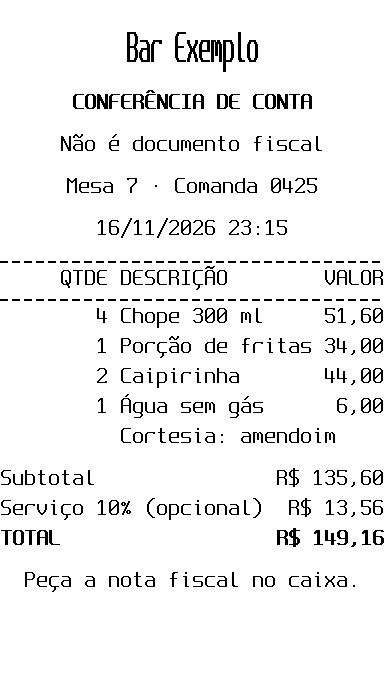
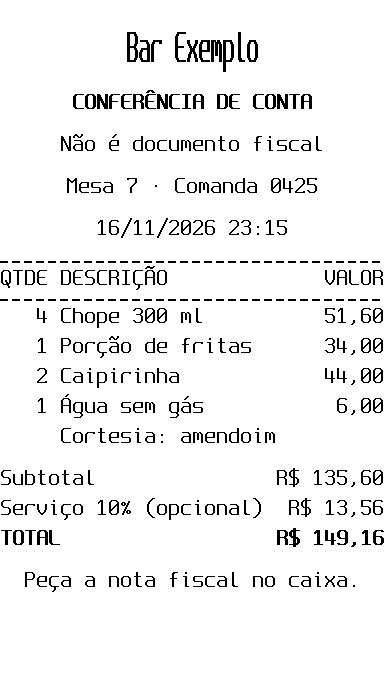
Table review: the text column takes the spare room, font tables view as printed, sturdier eval checks
- A table that fills the paper gives what is left to its widest left-aligned auto column (text, not numbers;
  ties: the first; none left-aligned: the widest auto column), not always the first: an item's description, a
  total's label. Before, a right-aligned Qty or QTDE in the first column took it. Goldens changed:
  table-cells-bill.png and examples/tables/bar-check.png. tables.md and bobina help table say the rule.
- The terminal view of a table in a raster font lines its columns up where the paper has them (as wide as they
  print, wider only for a proportional font's text): a total's value at the right margin, not next to its label.
- bobina help's footer wraps between topics at 80 columns; one list (SHOWN, ALSO_NAMED) feeds it, the help
  command, an unknown topic and the MCP help tool, which imports LISTED.
- evals/checks/table_checks.py: calls the real bobina named in cli-agent-eval's shim, so a check never lands in
  the agent's trace; the receipt look needs the receipt style's own dashed rule (asked of bobina view) above and
  below the titles, so a --- {.dashed} over a plain table fails; table separators with fewer than 3 dashes
  count; a missing item 003 is said plainly. Tests for each, and for totals drawn in a smaller font.
- The earlier docs commit also left the CLI's drafts-and-editor section out of llms-full.txt, on purpose: an
  editor needs a person at a terminal, and llms-full.txt is for agents (it stays in docs/CLI.md).
[…]

diff --git a/evals/checks/table_checks.py b/evals/checks/table_checks.py
@@ -10,19 +10,34 @@ cell versus a column's prefix). Standard library only: it runs with the sandbox'
 
 from __future__ import annotations
 
+import ast
 import functools
 import json
 import re
+import shutil
 import subprocess
 import sys
+import tempfile
 from pathlib import Path
 
 BRAILLE = re.compile(r"^[ -⣿]+$")
+SHIM_REAL = re.compile(r"^REAL, TRACE = (.+)$", re.M)  # cli-agent-eval's shim: REAL, TRACE = '/…/bobina', '/…'
+
+
+@functools.cache
+def executable() -> str:
+    """The real bobina, not cli-agent-eval's shim in front of it: the shim logs every call into the agent's trace,
+    and a check is not the agent's call. The shim names the real program in its REAL line (sandbox.py SHIM)."""
+    found = shutil.which("bobina")
+    if not found:
+        sys.exit("no bobina on PATH")
+    m = SHIM_REAL.search(Path(found).read_bytes()[:8192].decode("utf-8", "replace"))
+    return ast.literal_eval(m.group(1))[0] if m else found
 
 
 @functools.cache
 def bobina(*args: str) -> subprocess.CompletedProcess:
-    return subprocess.run(["bobina", *args], capture_output=True, text=True)
+    return subprocess.run([executable(), *args], capture_output=True, text=True)
 
 
 def problems(path: str) -> list[dict]:
@@ -52,6 +67,24 @@ def is_rule(line: str) -> bool:
     return bool(BRAILLE.match(line.strip()))
 
 
+@functools.cache
+def receipt_rule() -> set[str]:
+    """How bobina view shows the dashed rule of style=receipt (its braille letters), asked of bobina itself: a
+    solid rule, a divider (--- {.dashed}) or another style's line shows other letters."""
+    with tempfile.TemporaryDirectory() as tmp:
+        ref = Path(tmp) / "ref.bob.md"
+        ref.write_text("| A |\n|---|\n| b |\n{style=receipt}\n", encoding="utf-8")
+        lines = view(str(ref))
+    i = find(lines, "A")
+    if i < 1 or not is_rule(lines[i - 1]):
+        sys.exit(f"bobina view shows no receipt rule to compare with: {lines}")
+    return set(lines[i - 1].strip())
+
+
+def is_receipt_rule(line: str) -> bool:
+    return is_rule(line) and set(line.strip()) <= receipt_rule()
+
+
 def widths(path: str, ncol: int) -> list[tuple[str, int]] | None:
     """(title, width) of each column of the first table with `ncol` columns, from bobina check's L108 note."""
     for p in problems(path):
@@ -66,7 +99,7 @@ def body_rows(path: str) -> list[str]:
     """The body rows of every table in the document as written (no title row, no separator row)."""
     lines, rows = Path(path).read_text(encoding="utf-8").splitlines(), []
     for i, ln in enumerate(lines):
-        if re.match(r"^\s*\|?\s*:?-{3,}:?\s*(\|\s*:?-{3,}:?\s*)*\|?\s*$", ln) and i > 0 and "|" in lines[i - 1]:
+        if re.match(r"^\s*\|?\s*:?-+:?\s*(\|\s*:?-+:?\s*)*\|?\s*$", ln) and i > 0 and "|" in lines[i - 1]:
             j = i + 1
             while j < len(lines) and lines[j].strip().startswith("|"):
                 rows.append(lines[j])
@@ -111,8 +144,8 @@ def rules_around_titles(path, *titles):
     i = find(lines, *titles)
     if i < 0:
         fail(f"no title line with {titles}")
-    if not (i > 0 and is_rule(lines[i - 1]) and i + 1 < len(lines) and is_rule(lines[i + 1])):
-        fail(f"no dashed line both above and below the titles: {lines[max(0, i - 1) : i + 2]}")
+    if not (i > 0 and is_receipt_rule(lines[i - 1]) and i + 1 < len(lines) and is_receipt_rule(lines[i + 1])):
+        fail(f"no receipt's dashed line both above and below the titles: {lines[max(0, i - 1) : i + 2]}")
 
 
 def bar_titles_ruled(path):
@@ -159,6 +192,8 @@ def market_discount_under_description(path):
     if d < 0:
         fail("no line with the whole 'Desconto no item 3 - 3,27' (squeezed into one column?)")
     item = next((i for i, ln in enumerate(lines) if ln.lstrip().startswith("003")), -1)
+    if item < 0:
+        fail("no item 003 (no line starting with 003)")
     nxt = next((i for i, ln in enumerate(lines) if ln.lstrip().startswith("008")), len(lines))
     if not item < d < nxt:
         fail("the discount line is not right after item 003")

diff --git a/src/bobina/layout.py b/src/bobina/layout.py
@@ -1870,8 +1870,10 @@ class Layout:
             widths[i] = w
         keep = [max(h, min(n, w)) for h, n, w in zip(lay.hard, natural, longest[0], strict=True)]
         self.widen_for_spans(widths, body, lay, ink, max(0, cap - sum(widths)), keep)
-        if auto and not t.attrs.has("compact") and sum(widths) < cap:  # stretch: last column at the paper edge
-            widths[auto[0]] += cap - sum(widths)
+        if auto and not t.attrs.has("compact") and sum(widths) < cap:  # stretch to the paper's edge: the spare
+            text = [i for i in auto if _at(t.aligns, i, "left") == "left"] or auto  # room goes to the widest auto
+            widths[max(text, key=lambda i: natural[i])] += cap - sum(widths)  # column of text (left-aligned; the
+            # numbers are right-aligned), ties to the first: an item's description, a total's label
         free = max(0, cap - sum(widths))  # a .compact table is narrower than the paper: .center and .right place
         place = next((a for a in ("right", "center") if t.attrs.has(a)), t.attrs.kv.get("align"))  # a cut one: none
         shift = {"center": free // 2, "right": free}.get(place, 0) if t.attrs.has("compact") or not auto else 0
@@ -1989,9 +1991,10 @@ class Layout:
 
     def table_rows(self, t: Table, head, body, widths: list[int], ink, lay=None):
         """The title's lines and each body row's lines (table_wrap), each also on a grid of character columns: the
-        printer font's columns (what prints natively), or, for a table in a raster font, columns as wide as the
-        widest text in them (a span's text widening the last column it covers), so the terminal views show every
-        column of it, lined up."""
+        printer font's columns (what prints natively), or, for a table in a raster font, columns as wide as they
+        print, or as the widest text in them when a proportional font's text takes more character columns (a span's
+        text widening the last column it covers), so the terminal views show every column of it, lined up, where
+        the paper has it."""
         heads = self.table_wrap(t, head, widths, ink, lay, lay and lay.head_slots, t.head_row) if head else []
         groups = [self.table_wrap(t, r, widths, ink, lay, lay and _at(lay.slots, k), _row(t, k))
                   for k, r in enumerate(body)]  # fmt: skip
@@ -1999,7 +2002,7 @@ class Layout:
         grid = list(widths)
         if not ink.native:
             alone = [(s.first, seg) for ln in every for s, seg in zip(ln.slots, ln.segs, strict=True) if s.alone]
-            grid = [max([0, *(columns(seg) for i, seg in alone if i == c)]) for c in range(len(widths))]
+            grid = [max([w, *(columns(seg) for i, seg in alone if i == c)]) for c, w in enumerate(widths)]
             for ln in every:
                 for s, seg in zip(ln.slots, ln.segs, strict=True):
                     grid[s.last] += max(0, columns(seg) - _span(grid, s))

diff --git a/tests/test_agent_eval_tables.py b/tests/test_agent_eval_tables.py
@@ -73,6 +73,53 @@ def test_the_broken_file_fails_the_fix_checks(box):
     assert len(said) == len(task["checks"]), said
 
 
+def said(check: str, text: str) -> list[str]:
+    """What one check says of a document written into the work folder (empty: it passes)."""
+    Path("doc.bob.md").write_text(text, encoding="utf-8")
+    return failures(load_checks(), [(check, "doc.bob.md")])
+
+
+def test_r_dollar_typed_in_cells_is_caught_with_short_separators(box):
+    doc = "| Produto | Preço | Promo |\n|---|--:|--:|\n| Arroz 5 kg | R$ 24,90 | R$ 21,90 |\n"
+    assert said("prices-not-typed", doc)
+    assert said("prices-not-typed", doc.replace("|---|--:|--:|", "|:-|-:|:-:|"))
+
+
+def test_totals_in_a_smaller_font_pass(box):
+    doc = "| | |\n|---|--:|\n| Subtotal | 157,50 |\n| Gorjeta sugerida | 18,90 |\n| Total | 176,40 |\n"
+    doc += "{font=Terminus size=16px}\n"
+    for check in ("clean", "totals-without-title", "totals-name-left-value-right"):
+        assert not said(check, doc), check
+
+
+def test_a_dashed_divider_over_a_plain_table_is_not_the_receipt_look(box):
+    doc = "--- {.dashed}\n\n| QTDE | DESCRIÇÃO | VALOR |\n|--:|---|--:|\n| 1 | Bagel ovos | 39,00 |\n"
+    assert said("bar-titles-ruled", doc)
+    assert not said("bar-titles-ruled", doc.replace("--- {.dashed}\n\n", "") + "{style=receipt}\n")
+
+
+def test_no_item_003_is_said_plainly(box):
+    doc = "| IT | DESCRIÇÃO |\n|---|---|\n| 001 | CEBOLA |\n| | Desconto no item 3 - 3,27 {span=all} |\n"
+    assert said("market-discount-under-description", doc) == [
+        "market-discount-under-description: no item 003 (no line starting with 003)"
+    ]
+
+
+def test_the_checks_call_the_real_bobina_not_the_eval_shim(box, tmp_path, monkeypatch):
+    """cli-agent-eval puts a shim named bobina first on PATH that logs each call as the agent's; the checks read
+    the real program from the shim's REAL line and leave the trace alone."""
+    real = tmp_path / "bin" / "bobina"  # the box's bobina, this checkout's
+    shim, trace = tmp_path / "shim" / "bobina", tmp_path / "trace.jsonl"
+    shim.parent.mkdir()
+    shim.write_text(f"#!/bin/sh\necho called >> {trace}\nexit 1\nREAL, TRACE = {str(real)!r}, {str(trace)!r}\n")
+    shim.chmod(0o755)
+    monkeypatch.setenv("PATH", f"{shim.parent}{os.pathsep}{os.environ['PATH']}")
+    checks = load_checks()
+    assert checks.executable() == str(real)
+    assert failures(checks, [("clean", "etiqueta.bob.md")])[0].startswith("clean: bobina check: M101")
+    assert not trace.exists()
+
+
 def test_a_check_runs_as_the_eval_runs_it(box):
     script = ROOT / "evals" / "checks" / "table_checks.py"
     r = subprocess.run([sys.executable, str(script), "clean", "etiqueta.bob.md"], capture_output=True, text=True)

diff --git a/tests/test_table_columns.py b/tests/test_table_columns.py
@@ -456,3 +456,35 @@ def test_shrink_never_passes_its_room_even_below_one_each():
     for widths in ([1] * 10, [3, 3, 3], [40, 1, 1, 1, 1]):
         for cap in range(0, len(widths) + 1):
             assert sum(_shrink(widths, cap)) <= cap, (widths, cap)
+
+
+# --- the spare room goes to the widest auto column; a font table's view is as wide as its paper ------------------
+
+
+def test_the_spare_room_goes_to_the_widest_column_of_text():
+    """The widest left-aligned auto column takes what is left of the paper (ties: the first); without one, the
+    widest auto column."""
+    res = build("| Qty | Item | Price |\n|--:|---|--:|\n| 2 | Espresso | 18,00 |\n| 1 | Bagel | 39,00 |\n")
+    assert lines(res)[1] == "  2 " + "Espresso".ljust(22) + " 18,00"  # the description takes it, not Qty
+    res = build("| Item | Qty | Price |\n|---|--:|--:|\n| Rice | 1 | 9,00 |\n")
+    assert lines(res)[1] == "Rice".ljust(22) + "   1  9,00"  # Price is wider, but right-aligned: a number
+    res = build("| | |\n|---|--:|\n| SUBTOTAL | 88,00 |\n| TOTAL | 96,80 |\n")
+    assert lines(res)[0] == "SUBTOTAL".ljust(27) + "88,00"  # a total's label still does
+    res = build("| ab | cd |\n|---|---|\n| x | y |\n")
+    assert lines(res)[0] == "ab".ljust(30) + "cd"  # a tie: the first
+    res = build("| a | bbb |\n|--:|--:|\n| 1 | 2 |\n")
+    assert lines(res)[0] == "a" + " bbb".rjust(31)  # nothing left-aligned: the widest auto column
+
+
+def test_a_short_code_column_on_58mm_leaves_the_room_to_the_description():
+    res = build("| IT | CÓD | DESCRIÇÃO | TOTAL |\n|---|---|---|--:|\n| 001 | 1431 | CEBOLA KG | 14,25 |\n"
+                "| 003 | 7369 | BANANA PRATA | 16,33 |\n", profile_name="mtp-ii-58")  # fmt: skip
+    assert lines(res)[1] == "001 1431 " + "CEBOLA KG".ljust(17) + " 14,25"
+
+
+def test_the_view_of_a_font_table_without_titles_is_as_wide_as_it_prints():
+    """The terminal view lines a raster-font table's columns up where the paper has them: a total's value at the
+    right margin, not next to its label."""
+    res = build('| | {prefix="R$ "} |\n|---|--:|\n| SUBTOTAL | 105,70 |\n| TROCO | 7,57 |\n{font=Terminus size=16px}\n')
+    assert notes(res)[0].endswith("(+1 gap = 48 of 48)")
+    assert lines(res) == ["SUBTOTAL" + " " * 31 + "R$ 105,70", "TROCO" + " " * 36 + "R$ 7,57"]

diff --git a/src/bobina/cli/args.py b/src/bobina/cli/args.py
@@ -155,9 +155,21 @@ def _help_code(code: str, as_json: bool) -> int:
 
 TOPICS = ("commands", "format", "table", "data", "pay", "contact", "icons", "nudges", "problems", "aliases")
 NAMED = {"pay", "contact"}  # topics that take a second word: bobina help pay pix, bobina help contact x
-SAME_AS = {"commands": "bobina help itself", "problems": "nudges"}  # topics also reached under another name
-# what bobina help says it takes, all from TOPICS: its footer, the help command's description, an unknown topic
-LISTED = [t for t in TOPICS if t not in SAME_AS] + ["a problem code (E302)", "a command"]
+ALSO_NAMED = frozenset({"commands", "problems"})  # bobina help itself; nudges: not listed again
+SHOWN = [t for t in TOPICS if t not in ALSO_NAMED]  # what bobina help lists: its footer, the help command's
+LISTED = [*SHOWN, "a problem code (E302)", "a command"]  # description, an unknown topic, the MCP help tool
+
+
+def _footer(width: int = 80) -> str:
+    """The last lines of bobina help: every topic, wrapped between topics at `width` columns."""
+    lines, line = [], "Help: bobina help"
+    for i, word in enumerate([*SHOWN, "E302", "COMMAND"]):
+        piece = (" " if i == 0 else " | ") + word
+        if len(line) + len(piece) + 2 > width:  # room left for the " |" that ends a wrapped line
+            lines.append(line + " |")
+            line, piece = "     ", " " + word
+        line += piece
+    return "\n".join([*lines, line])
 
 
 def _help_text(topic: str, name: str | None = None) -> str:
@@ -586,8 +598,7 @@ def make_parser():
         prog="bobina",
         formatter_class=argparse.RawDescriptionHelpFormatter,
         description="bobina — print Markdown on thermal roll printers",
-        epilog="Every command that prints shows a confirmation first (--yes skips it).\n"
-        "Help: bobina help " + " | ".join([t for t in TOPICS if t not in SAME_AS] + ["E302", "COMMAND"]),
+        epilog="Every command that prints shows a confirmation first (--yes skips it).\n" + _footer(),
     )
     ap.add_argument("--version", action="version", version=f"bobina {__version__}")
     sub = ap.add_subparsers(dest="command", metavar="COMMAND")

diff --git a/tests/test_table_help.py b/tests/test_table_help.py
@@ -19,7 +19,8 @@ def test_help_table_prints_on_an_80_column_terminal(capsys):
     assert max(len(line) for line in out.splitlines()) <= 80
     out = " ".join(out.split())  # wrapped lines read as one
     for must in ("style=plain|receipt|lines|grid|header-invert|zebra", "width=", 'prefix="R$ "', "span=all",
-                 "one empty cell for each column before it", "lowercase", "| | |", "docs/guides/tables.md"):  # fmt: skip
+                 "one empty cell for each column before it", "lowercase", "widest left-aligned one", "| | |",
+                 "docs/guides/tables.md"):  # fmt: skip
         assert must in out, must
 
 
@@ -64,13 +65,19 @@ def test_the_example_is_clean():
     assert not [n.code for n in res.visible_nudges() if n.severity in ("warning", "error")]
 
 
-def test_bobina_help_lists_every_topic(capsys):
+def test_bobina_help_lists_every_topic(capsys, monkeypatch):
     """The footer of bobina help, the help command's description and an unknown topic say the same list, made from
-    TOPICS: a new topic cannot be left out of them."""
+    TOPICS: a new topic cannot be left out of them. On an 80-column terminal the footer wraps between topics."""
+    monkeypatch.setenv("COLUMNS", "80")
     cli.main(["help"])
-    footer = capsys.readouterr().out.strip().splitlines()[-1]
-    for t in ("format", "table", "data", "pay", "contact", "icons", "nudges", "aliases", "E302", "COMMAND"):
-        assert f" {t}" in footer, t
+    out = capsys.readouterr().out
+    assert max(len(line) for line in out.splitlines()) <= 80
+    footer = out[out.index("Help: bobina help") :]
+    words = [w.strip() for w in footer.removeprefix("Help: bobina help").split("|")]
+    assert words == [*args.SHOWN, "E302", "COMMAND"]
+    for t in ("format", "table", "data", "pay", "contact", "icons", "nudges", "aliases"):
+        assert t in args.SHOWN, t
+    assert args._footer(40).count("\n") >= 3 and max(len(x) for x in args._footer(40).splitlines()) <= 40
     assert cli.main(["help", "tabel"]) == cli.USAGE
     err = capsys.readouterr().err
     assert "did you mean table?" in err and all(t in err for t in args.LISTED)

diff --git a/src/bobina/mcp_server.py b/src/bobina/mcp_server.py
@@ -26,6 +26,7 @@ from pathlib import Path
 from typing import Annotated
 
 from . import paper
+from .cli.args import LISTED
 from .cli.common import LEFT_OUT, OK, USAGE, Fail
 from .datasource import NAME_OK
 from .library import NAME_RE, LibraryError, check_name
@@ -142,13 +143,6 @@ def _meaning(code: int) -> str:
     from .cli.args import EXIT_CODES
 
     return EXIT_CODES.get(code, "")
-
-
-def _help_topics() -> list[str]:
-    """What the help tool takes: the topics bobina help lists (one list, in cli/args.py)."""
-    from .cli.args import LISTED
-
-    return LISTED
 
 
 def result(r: Run, *extra):
@@ -467,7 +461,7 @@ def build(printer=None, profile=None, allow: list[str] | None = None, strict: bo
     async def help_(
         topic: Annotated[
             str | None,
-            Field(description=", ".join(_help_topics()) + "; none: the whole CLI for programs"),
+            Field(description=", ".join(LISTED) + "; none: the whole CLI for programs"),  # bobina help's list
         ] = None,
         name: Annotated[
             str | None, Field(description="with topic pay or contact: one scheme or network, e.g. pix")

diff --git a/src/bobina/table_help.py b/src/bobina/table_help.py
@@ -39,7 +39,8 @@ COLUMNS_PER_LINE = (  # (font, columns on 58 mm, on 80 mm), the 1-column spaces 
 )
 
 COLUMN = {
-    "width=": "auto (the default: the auto columns share what is left), 7ch (columns of the table's font), "
+    "width=": "auto (the default: the auto columns share what is left, and the widest left-aligned one, text "
+    "rather than numbers, takes the rest of the paper), 7ch (columns of the table's font), "
     "20mm, 30% (of the text room), 96 (dots). A column with a width wraps its text inside it and cuts a longer "
     "word at its edge, without a warning",
     "prefix=": '"R$ " before every body value: never in the title row, never in an empty cell',

diff --git a/docs/guides/tables.md b/docs/guides/tables.md
@@ -20,8 +20,8 @@ Everything with the same reach goes in the same `{…}`. Names and values are lo
 ## Columns
 
 - The second line sets each column's alignment, as in any Markdown: `---` left, `--:` right, `:-:` centre.
-- Each column is as wide as its text, with **one column of space** between two columns. The table fills the paper
-  (the first column takes what is left); `.compact` keeps it narrow, `.center` or `.right` places it.
+- Each column is as wide as its text, **one column of space** between columns. The table fills the paper: the
+  widest left-aligned column (text, not numbers) takes the rest; `.compact` keeps it narrow (`.center`, `.right`).
 - The printer font has 32 columns on 58 mm paper and 48 on 80 mm, the spaces included: 4 columns on 58 mm leave
   29 for text. A cell wraps at its spaces; a word longer than an `auto` column is cut (`L101`).
 - In a cell: `**bold**`, `*italic*`, `~~strike~~`, `[word]{.invert}`; `font=` and `size=` go to the whole table.
